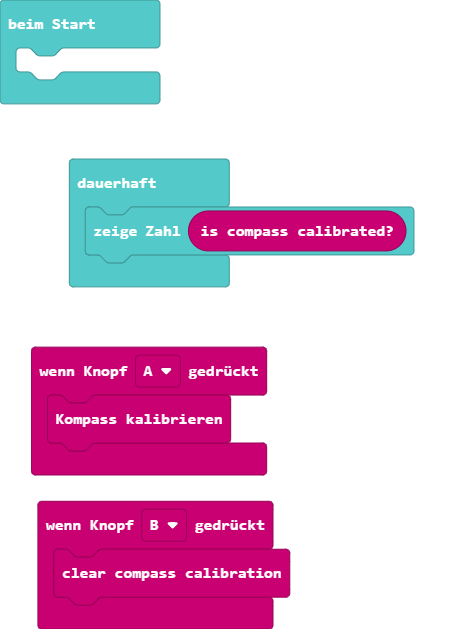
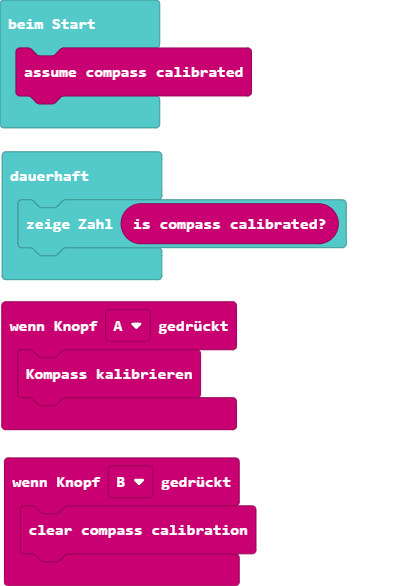
test

diff --git a/main.ts b/main.ts
@@ -4,6 +4,7 @@ input.onButtonPressed(Button.A, function () {
 input.onButtonPressed(Button.B, function () {
     input.clearCalibrationCompass()
 })
+input.assumeCalibratedCompass()
 basic.forever(function () {
     basic.showNumber(input.isCalibratedCompass())
 })

diff --git a/compassDriver.cpp b/compassDriver.cpp
@@ -1,11 +1,13 @@
+#include "pxtcore.h"
 // #include "MicroBitCompass.h"
+using namespace MicroBit;
 
-// /**
-//  * Assume the Compass has callibration data and set it as callibrated
-//  *
-//  */
-// void MicroBitCompass::assumeCalibrated()
-// {
-//     status |= MICROBIT_COMPASS_STATUS_CALIBRATED;
-//     // status |= 0x02;
-// }
+/**
+ * Assume the Compass has callibration data and set it as callibrated
+ *
+ */
+void assumeCalibrated()
+{
+    // status |= MICROBIT_COMPASS_STATUS_CALIBRATED;
+    status |= 0x02;
+}
